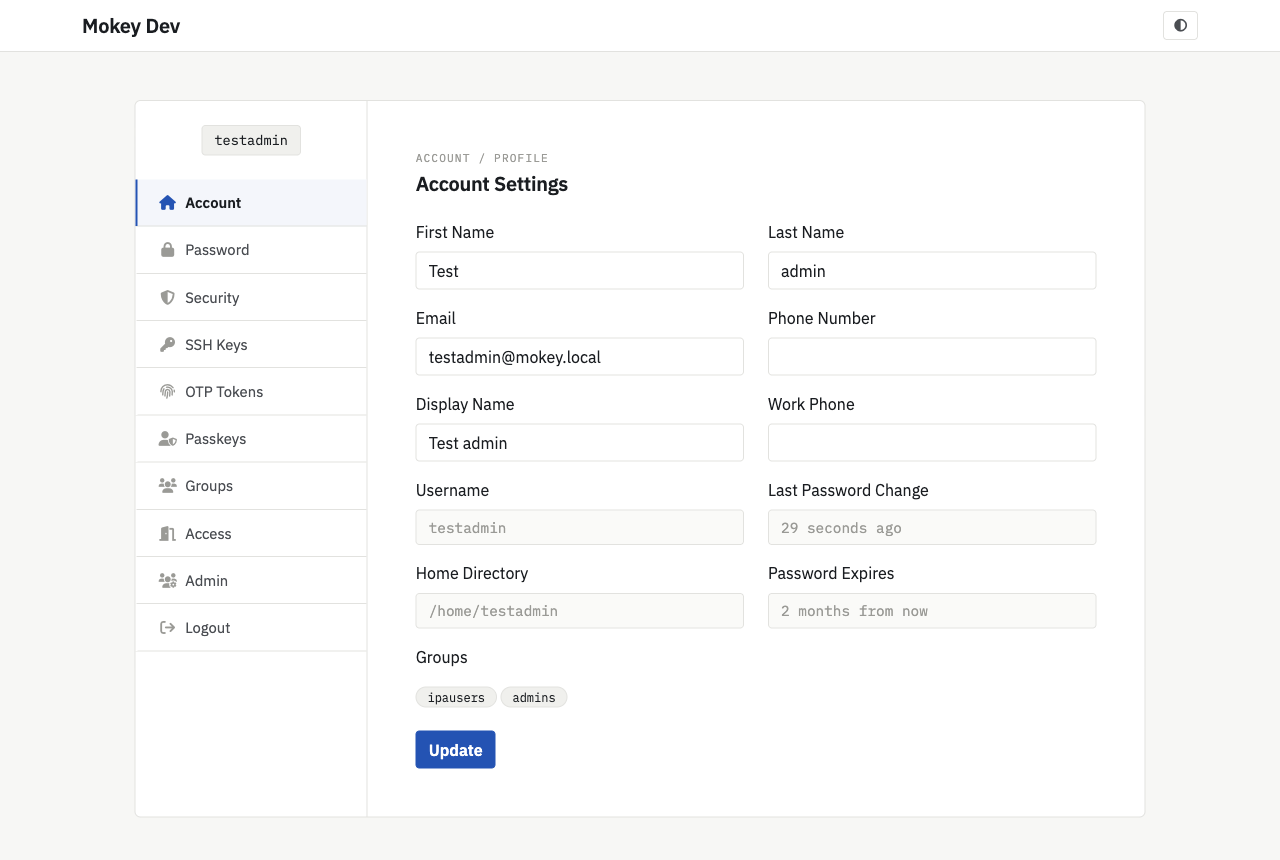
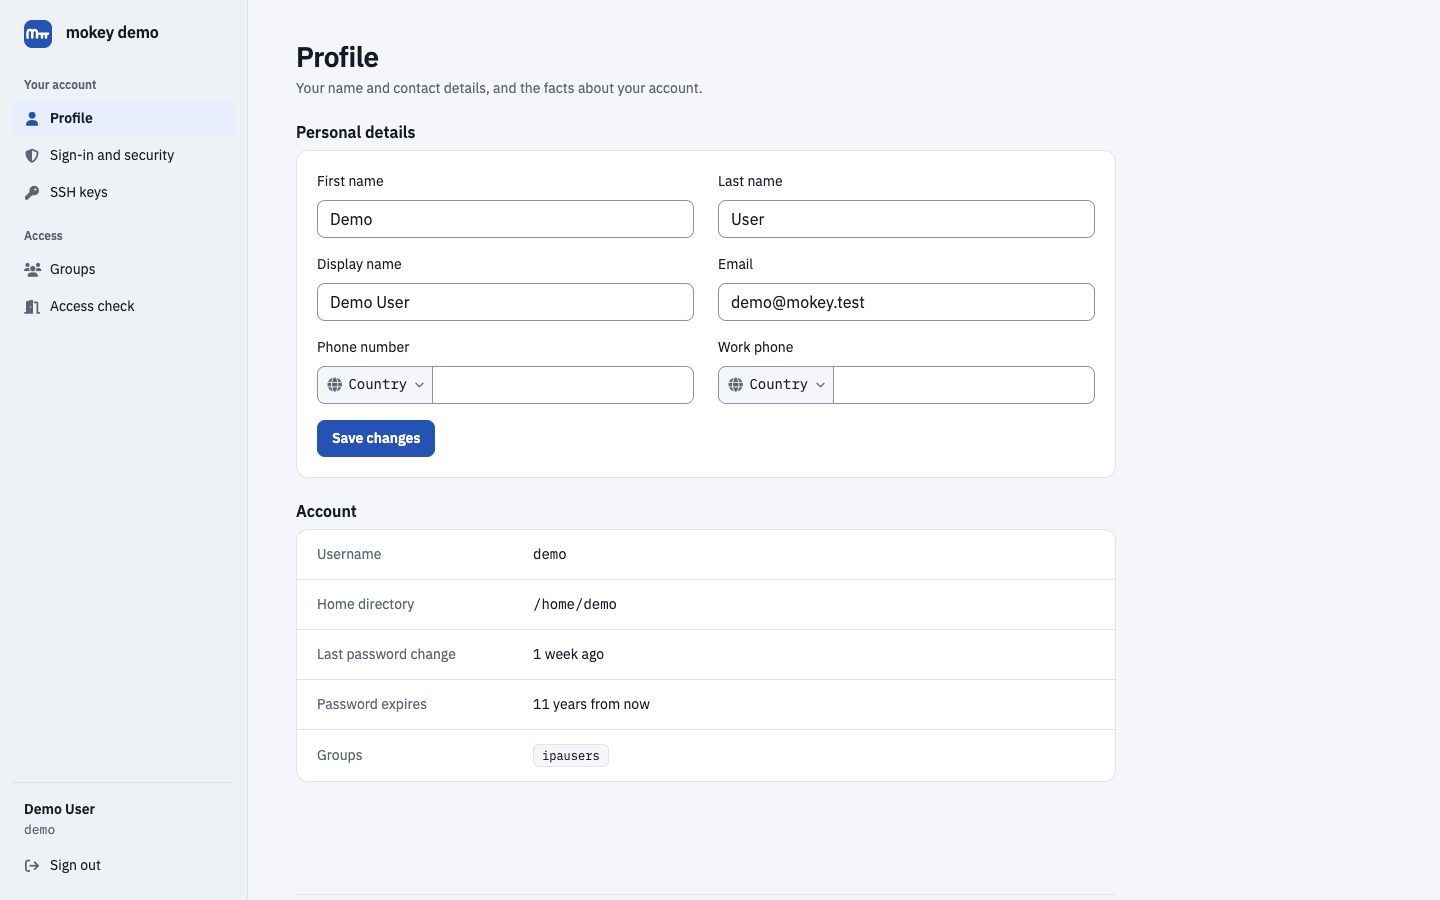
docs: v2.9 screenshots

diff --git a/README.md b/README.md
@@ -66,11 +66,11 @@ flowchart LR
 
 | Account | Security |
 | --- | --- |
-| ![Account settings](docs/mokey-screenshot-home.png) | ![Security: sessions and activity](docs/mokey-screenshot-security.png) |
+| ![Profile](docs/mokey-screenshot-home.png) | ![Sign-in and security](docs/mokey-screenshot-security.png) |
 
 | Login | Admin panel |
 | --- | --- |
-| ![Login](docs/mokey-screenshot-login.png) | ![Admin panel](docs/mokey-screenshot-admin.png) |
+| ![Sign in](docs/mokey-screenshot-login.png) | ![Admin: people](docs/mokey-screenshot-admin.png) |
 
 ## Project status
 

diff --git a/docs/guides/signup.md b/docs/guides/signup.md
@@ -5,7 +5,7 @@ own FreeIPA account, confirm their email address, and optionally wait for an
 administrator to approve them. Unapproved registrations can be kept out of the
 active user tree entirely by creating them as FreeIPA stage users.
 
-![mokey admin panel](../mokey-screenshot-admin.png)
+![mokey admin: people](../mokey-screenshot-admin.png)
 
 ## What the user gets
 

diff --git a/docs/guides/password-reset.md b/docs/guides/password-reset.md
@@ -4,7 +4,7 @@ FreeIPA has no "forgot password" flow of its own. mokey adds one: a user
 enters their username, gets a single-use link by email, and sets a new
 FreeIPA password that works at once, with no forced change at next login.
 
-![mokey login page](../mokey-screenshot-login.png)
+![mokey sign-in page](../mokey-screenshot-login.png)
 
 ## What the user gets
 

diff --git a/docs/guides/otp.md b/docs/guides/otp.md
@@ -7,7 +7,7 @@ off, and ask for help when they lose their only token. Tokens live in
 FreeIPA, so they work for SSH, sudo and Kerberos logins on enrolled hosts,
 not just for mokey.
 
-![mokey security settings](../mokey-screenshot-security.png)
+![mokey sign-in and security page](../mokey-screenshot-security.png)
 
 ## What the user gets
 

diff --git a/docs/index.md b/docs/index.md
@@ -9,7 +9,7 @@ service account. It needs no LDAP schema changes and no database of its own.
 It can also serve as the login and consent app for Ory Hydra (OAuth 2.0 /
 OpenID Connect).
 
-![mokey account page](mokey-screenshot-home.png)
+![mokey profile page](mokey-screenshot-home.png)
 
 ## Find the guide for your task
 
